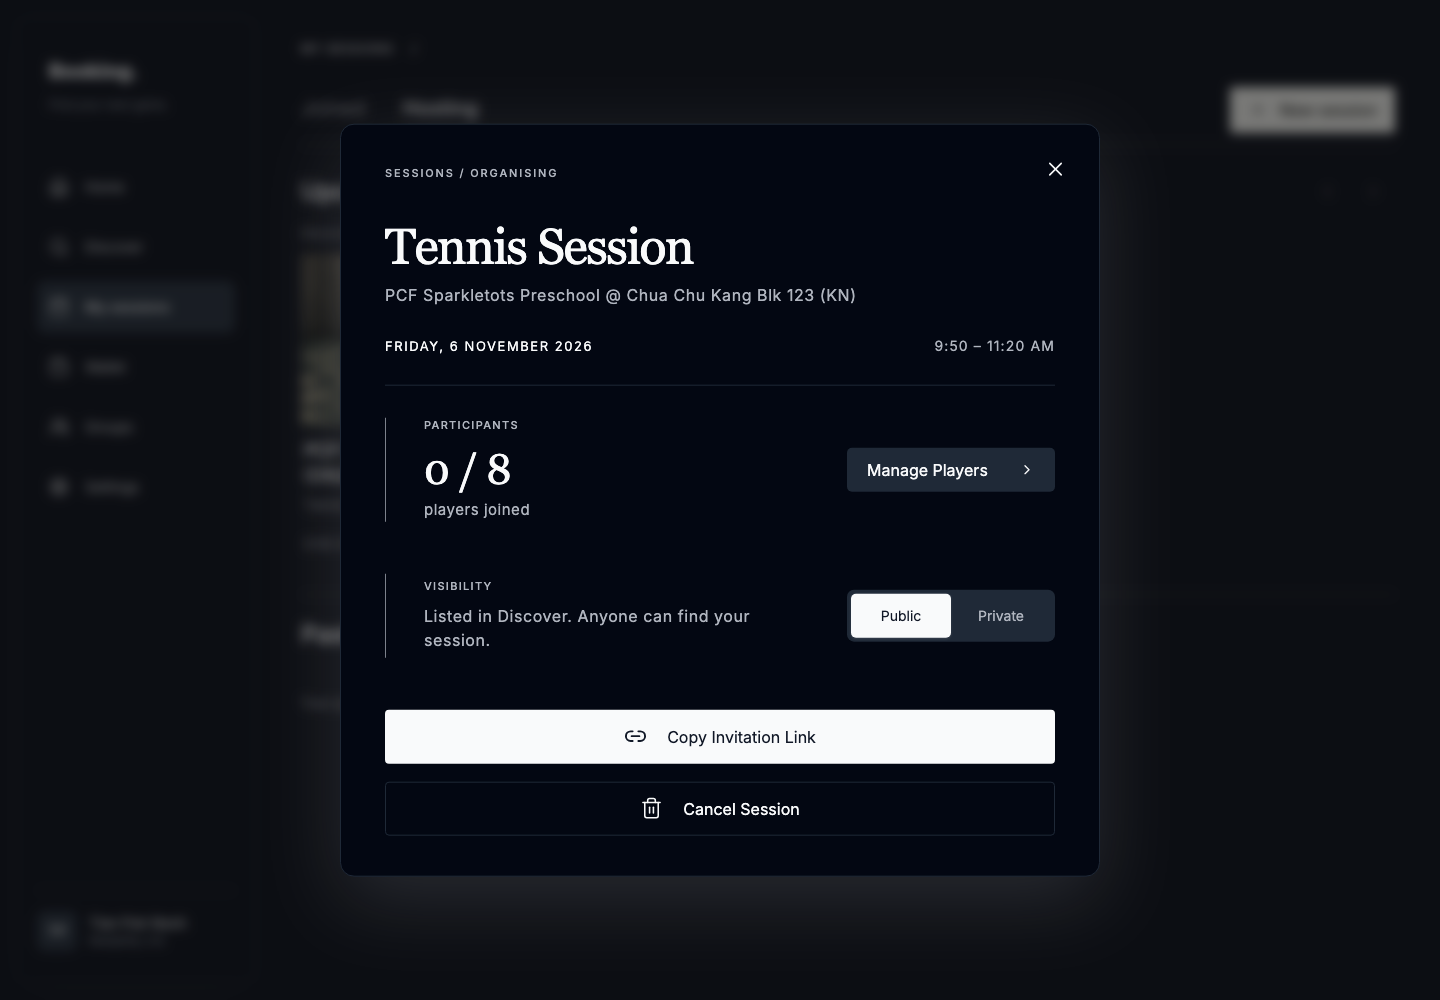
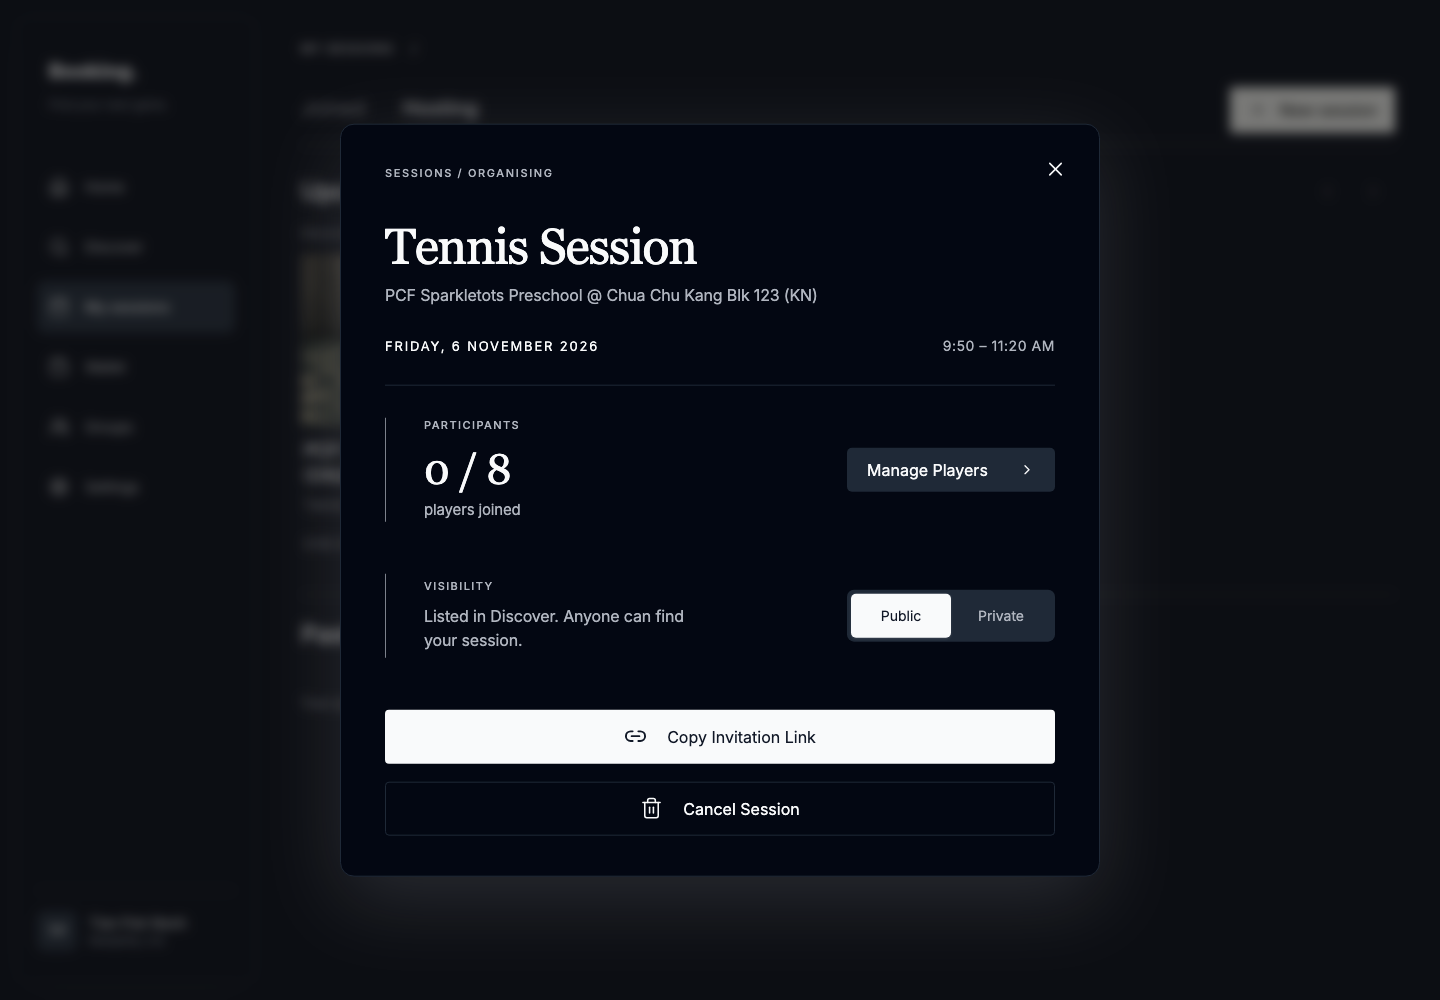
style(sessions): match reference letter spacing

diff --git a/app/sessions/_components/session-details.module.css b/app/sessions/_components/session-details.module.css
@@ -1,25 +1,25 @@
 .overlay { background: rgb(20 20 20 / .55); backdrop-filter: blur(6px); }
 .sheetHandle { display: none; }
-.dialog.dialog { width: calc(100% - 32px); max-width: 760px; max-height: calc(100dvh - 32px); overflow-y: auto; padding: 40px 44px; gap: 0; border-radius: 14px; background: hsl(var(--card)); box-shadow: 0 24px 80px hsl(var(--foreground) / .12); }
+.dialog.dialog { width: calc(100% - 32px); max-width: 760px; max-height: calc(100dvh - 32px); overflow-y: auto; padding: 40px 44px; gap: 0; border-radius: 14px; background: hsl(var(--card)); box-shadow: 0 24px 80px hsl(var(--foreground) / .12); font-kerning: normal; }
 .header { text-align: left; margin-bottom: 28px; }
-.eyebrow { margin: 0 44px 30px 0; color: hsl(var(--muted-foreground)); font-size: 11px; font-weight: 500; letter-spacing: .17em; text-transform: uppercase; }
+.eyebrow { margin: 0 44px 30px 0; color: hsl(var(--muted-foreground)); font-size: 11px; font-weight: 500; letter-spacing: .15em; text-transform: uppercase; }
 .titleRow { min-width: 0; }
-.title { margin: 0; font-family: Georgia, "Times New Roman", serif; font-size: 50px; line-height: 1.15; font-weight: 400; letter-spacing: -1.5px; text-transform: capitalize; }
-.subtitle { margin-top: 8px !important; color: hsl(var(--muted-foreground)); font-size: 16px; line-height: 1.5; letter-spacing: .035em; overflow-wrap: anywhere; }
+.title { margin: 0; font-family: Georgia, "Times New Roman", serif; font-size: 50px; line-height: 1.15; font-weight: 400; letter-spacing: -.025em; text-transform: capitalize; }
+.subtitle { margin-top: 8px !important; color: hsl(var(--muted-foreground)); font-size: 16px; line-height: 1.5; letter-spacing: -.01em; overflow-wrap: anywhere; }
 .subtitle a:hover { text-decoration: underline; text-underline-offset: 4px; }
 .date { flex: 1; }
 .summary { display: flex; align-items: baseline; justify-content: space-between; gap: 16px 24px; padding-bottom: 28px; margin-bottom: 32px; border-bottom: 1px solid hsl(var(--border)); }
 .date, .time { font-size: 18px; line-height: 1.5; }
-.date { font-size: 13px; font-weight: 400; letter-spacing: .12em; line-height: 1.6; text-transform: uppercase; }
-.time { flex: none; text-align: right; font-size: 14px; line-height: 1.6; letter-spacing: .08em; color: hsl(var(--muted-foreground)); white-space: nowrap; }
+.date { font-size: 13px; font-weight: 400; letter-spacing: .14em; line-height: 1.6; text-transform: uppercase; }
+.time { flex: none; text-align: right; font-size: 14px; line-height: 1.6; letter-spacing: .04em; color: hsl(var(--muted-foreground)); white-space: nowrap; }
 .managementRow { display: flex; align-items: center; justify-content: space-between; gap: 24px; border-left: 1px solid hsl(var(--muted-foreground) / .7); min-height: 98px; margin-bottom: 52px; padding: 0 0 0 38px; }
 .managementRow > div:first-child { min-width: 0; }
-.managementRow h3 { margin-bottom: 10px; color: hsl(var(--muted-foreground)); font-size: 11px; font-weight: 500; line-height: 1.4; letter-spacing: .12em; text-transform: uppercase; }
+.managementRow h3 { margin-bottom: 10px; color: hsl(var(--muted-foreground)); font-size: 11px; font-weight: 500; line-height: 1.4; letter-spacing: .13em; text-transform: uppercase; }
 .count { display: flex; flex-direction: column; align-items: flex-start; gap: 5px; }
 .count strong { color: hsl(var(--foreground)); font-family: Georgia, "Times New Roman", serif; font-size: 42px; font-weight: 400; letter-spacing: -.8px; line-height: 1.2; }
-.count > span { color: hsl(var(--muted-foreground)); font-size: 15px; letter-spacing: .035em; }
+.count > span { color: hsl(var(--muted-foreground)); font-size: 15px; letter-spacing: -.01em; }
 .manageButton { min-width: 208px; min-height: 44px; flex-shrink: 0; justify-content: space-between; padding: 0 20px; border-radius: 5px; font-size: 16px; font-weight: 400; text-transform: capitalize; }
-.visibilityDescription { max-width: 330px; color: hsl(var(--muted-foreground)); font-size: 16px; line-height: 1.5; letter-spacing: .035em; }
+.visibilityDescription { max-width: 280px; color: hsl(var(--muted-foreground)); font-size: 16px; line-height: 1.5; letter-spacing: -.01em; }
 .segment { display: flex; flex-shrink: 0; min-width: 208px; padding: 4px; border-radius: 7px; background: hsl(var(--muted)); }
 .segment button { flex: 1; min-width: 76px; min-height: 44px; padding: 8px 12px; border-radius: 5px; color: hsl(var(--muted-foreground)); font-size: 14px; }
 .segment button[aria-pressed="true"] { background: hsl(var(--primary)); color: hsl(var(--primary-foreground)); box-shadow: 0 1px 3px hsl(var(--foreground) / .12); }
@@ -59,7 +59,7 @@
   .dialog.dialog[data-state="closed"] { animation: sheetExit 180ms ease-in; }
   .sheetHandle { position: absolute; top: 2px; left: 50%; display: flex; align-items: center; justify-content: center; width: 80px; height: 40px; transform: translateX(-50%); border-radius: 8px; }
   .sheetHandle span { width: 34px; height: 3px; border-radius: 999px; background: hsl(var(--muted-foreground) / .3); }
-  .eyebrow { margin-bottom: 32px; font-size: 10px; }
+  .eyebrow { margin-bottom: 32px; font-size: 10px; letter-spacing: .17em; }
   .title { font-size: 40px; letter-spacing: -1px; }
   .subtitle { font-size: 13px; letter-spacing: 0; }
   .header { margin-bottom: 32px; }

diff --git a/docs/screenshots/session-details/README.md b/docs/screenshots/session-details/README.md
@@ -16,6 +16,6 @@ Render `Sessions/Session details/Hosting` and `Joined` after running `npm run bu
 
 Browser tests cover the real summary and controls, light/dark accessibility, history and in-progress restrictions, current-place checks, refund confirmation, waitlist departure, and keyboard focus restoration. Refund results remain visible until dismissed. Cancellation explicitly returns outstanding held shares to wallets and leaves venue reservation cancellation to the booker.
 
-The host design follows the organising reference: serif titles and player counts, title-cased uppercase venue names with common abbreviations preserved, one date/time row with a lower divider, a large count with its caption below, left-rule management sections, confirmed Public/Private segments, and full-width invitation/cancellation buttons with centered icons. Desktop uses a regular-weight uppercase date beside the time, a blurred backdrop, 52px clearance above the actions, an 18px gap between the buttons, and 40px padding below Cancel Session. Mobile uses a bottom-anchored sheet with a tap-to-dismiss handle, uppercase date, full-width management controls, safe-area padding, and a reduced-motion alternative. Cancellation uses a neutral outline; the confirmation dialog explains wallet refunds and separate venue cancellation. The redesign is scoped to host management. Joined retains its original 680px desktop modal, court photograph, title/status subtitle, Details/Participants tabs, full sport/location/date/availability information, and calendar link. Regression stories cover the completed CLEMENTI CASCADIA session on desktop and mobile. Native dialog scrolling, tab persistence, Escape, and trigger focus restoration were also checked in Chromium and WebKit.
+The host design follows the organising reference: serif titles and player counts, title-cased uppercase venue names with common abbreviations preserved, one date/time row with a lower divider, a large count with its caption below, left-rule management sections, confirmed Public/Private segments, and full-width invitation/cancellation buttons with centered icons. Desktop enables font-pair kerning, uses restrained tracking for the serif title and body copy, and wider tracking for uppercase metadata. It uses a regular-weight uppercase date beside the time, a blurred backdrop, 52px clearance above the actions, an 18px gap between the buttons, and 40px padding below Cancel Session. Mobile uses a bottom-anchored sheet with a tap-to-dismiss handle, uppercase date, full-width management controls, safe-area padding, and a reduced-motion alternative. Cancellation uses a neutral outline; the confirmation dialog explains wallet refunds and separate venue cancellation. The redesign is scoped to host management. Joined retains its original 680px desktop modal, court photograph, title/status subtitle, Details/Participants tabs, full sport/location/date/availability information, and calendar link. Regression stories cover the completed CLEMENTI CASCADIA session on desktop and mobile. Native dialog scrolling, tab persistence, Escape, and trigger focus restoration were also checked in Chromium and WebKit.
 
 Validation for the responsive reference: 83 session Storybook tests and seven shared confirmation-dialog tests pass. Chromium and WebKit separately verify bottom anchoring, native scrolling at 390 × 560, Escape, dismissal-handle behavior, and focus restoration. A rendering snapshot retains the content and presentation through the closing animation; current selection still controls whether the dialog is open.
